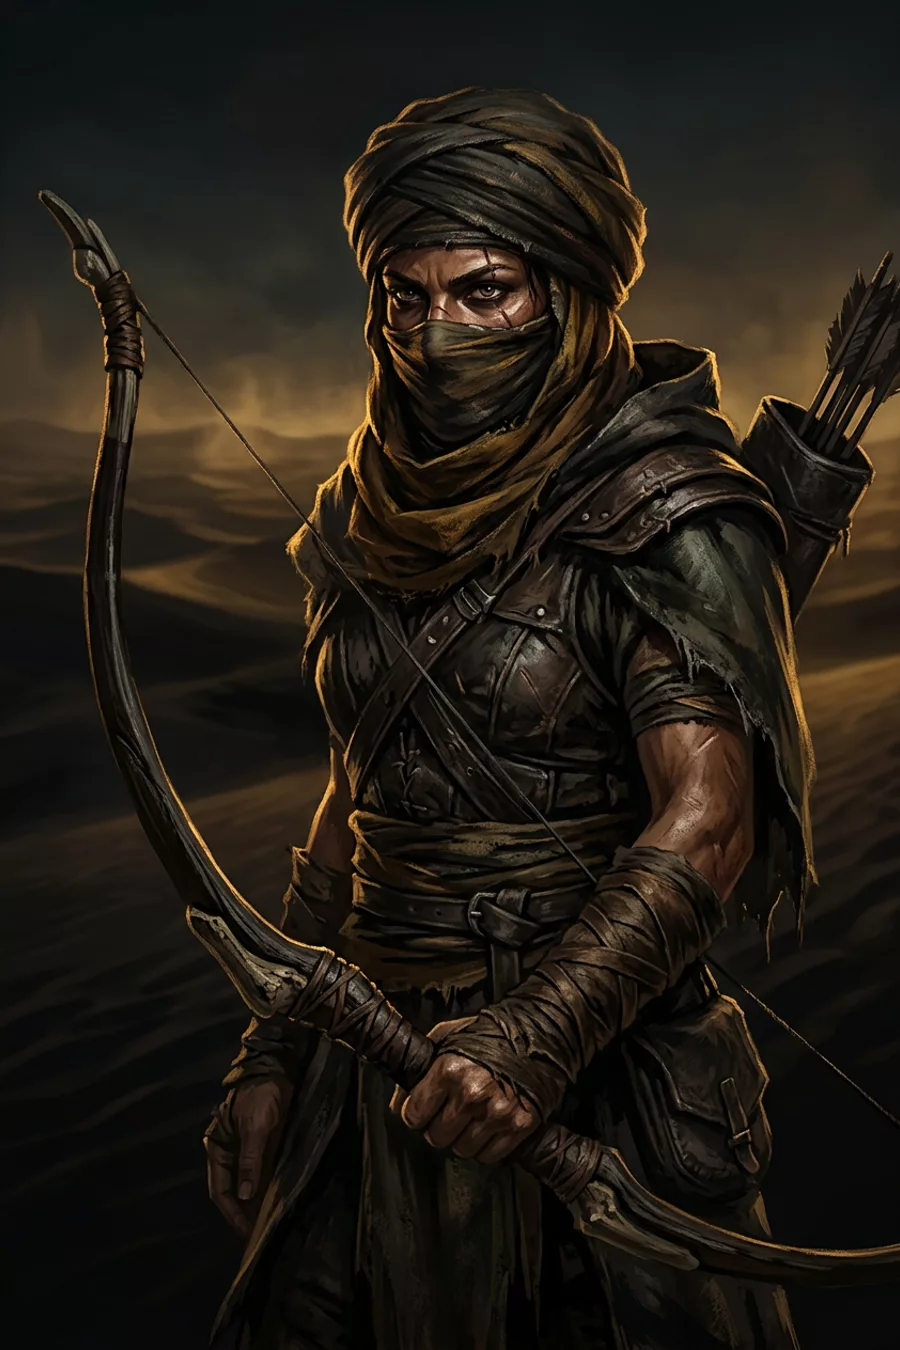
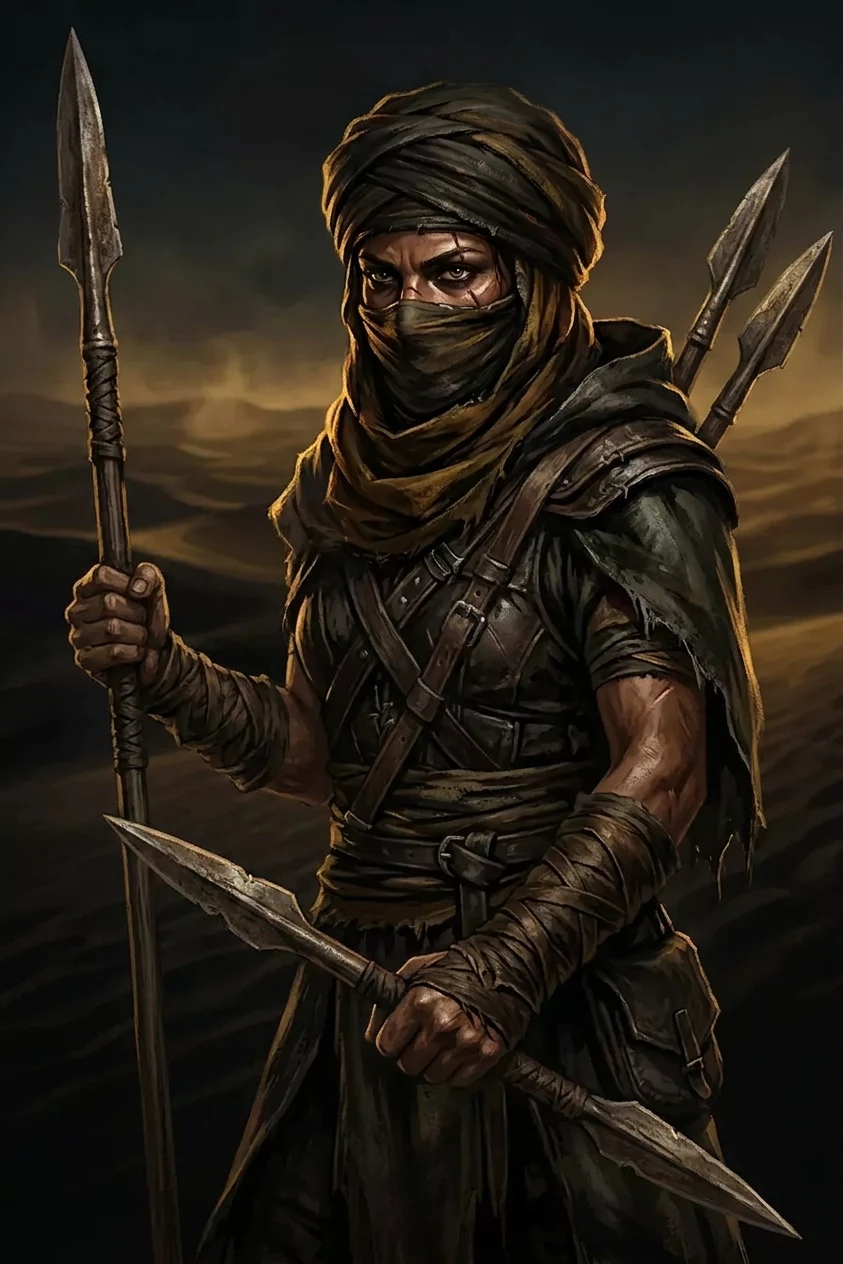
Resultados: botão Início; Miragem: arte e texto sem arco

diff --git a/src/main.jsx b/src/main.jsx
@@ -1,6 +1,6 @@
 import React, {useEffect, useMemo, useState} from 'react'
 import {createRoot} from 'react-dom/client'
-import {ArrowLeft, ArrowRight, BookOpen, Check, Compass, Gem, RotateCcw, Sparkles, Swords, X} from 'lucide-react'
+import {ArrowLeft, ArrowRight, BookOpen, Check, Compass, Gem, Home, RotateCcw, Sparkles, Swords, X} from 'lucide-react'
 import {questions} from './questions'
 import {classes} from './classes'
 import '@fontsource/cinzel/400.css'
@@ -137,8 +137,8 @@ function Flow({step}){return <aside className="flow"><div className="flow-headin
 function Quiz({answers,setAnswers,back,reveal,currentStep,setCurrentStep}){const question=questions[currentStep]; const selected=answers[currentStep]; const choose=option=>{const copy=[...answers];copy[currentStep]=option;setAnswers(copy)}; const next=()=>{if(currentStep===11){reveal()}else if(currentStep<11){setCurrentStep(step=>step+1)}}; const previous=()=>{if(currentStep>0) setCurrentStep(step=>step-1);else back()};return <main className="quiz-shell"><SceneBg soft/><header className="quiz-top"><div><span>PASSO {String(currentStep+1).padStart(2,'0')} DE 12</span><strong>{Math.round((currentStep+1)/12*100)}%</strong></div><div className="progress"><i style={{width:`${(currentStep+1)/12*100}%`}}/></div></header><div className="quiz-layout"><Flow step={currentStep}/><section className="question-panel"><div className="question-number">{String(currentStep+1).padStart(2,'0')} <span>/ 12</span></div><h1>{question.prompt}</h1><p>{question.context}</p><div className="choices">{question.options.map((option,i)=><button key={option.title} className={`choice-button ${selected===option?'choice-button--selected':''}`} onClick={()=>choose(option)}><span>0{i+1}</span><b>{option.title}</b><small>{option.detail}</small>{selected===option&&<Check className="choice-check" size={17}/>}</button>)}</div><div className="quiz-actions"><button className="ghost" onClick={previous}><ArrowLeft size={17}/> Voltar</button><button className="primary" disabled={!selected} onClick={next}>{currentStep===11?'Revelar caminho':'Continuar'} <ArrowRight size={17}/></button></div></section></div></main>}
 function Portrait({profile}){const [failed,setFailed]=useState(false);return <figure><div className="real-portrait">{!failed?<img src={profile.image} alt={profile.imageAlt} loading="lazy" onError={()=>setFailed(true)}/>:<div className="portrait-fallback">{profile.name}</div>}</div><figcaption>Retrato de inspiração</figcaption></figure>}
 function ResultCard({profile,main}){return <article className={`result-card ${main?'main-result':''}`}><Portrait profile={profile}/><div className="result-content"><div className="card-kicker">{main?'SEU NORTE':'SEGUNDA OPÇÃO'} <span>{profile.kind}</span></div><h2>{profile.name}</h2><div className="affinity"><Gem size={14}/> <b>{profile.affinity}%</b> de afinidade</div><p className="desc">{profile.description}</p><blockquote>{profile.scene}</blockquote><div className="why"><h3>Por que combina</h3>{profile.why.map(x=><div key={x}><Check size={15}/>{x}</div>)}</div><div className="profile-grid"><span><b>Perfil</b>{profile.role}</span><span><b>Atributo</b>{profile.attribute}</span><span><b>Complexidade</b>{profile.complexity}</span><span><b>Fonte</b>{profile.source}</span></div><p className="attention"><b>Antes de escolher:</b> {profile.attention}</p></div></article>}
-function Results({answers,redo,back}){const {top,second}=useMemo(()=>pickResults(answers),[answers]);return <main className="results-shell"><SceneBg soft/><header className="result-header"><div className="eyebrow"><Compass size={15}/> SUA BÚSSOLA APONTA PARA</div><h1>Um caminho <em>feito para você.</em></h1><Ornament/><p>Suas escolhas desenharam duas rotas coerentes para sua próxima aventura.</p></header><section className="results-list"><ResultCard profile={top} main/><ResultCard profile={second}/></section><div className="result-actions"><button className="ghost" onClick={back}><ArrowLeft size={17}/> Voltar às escolhas</button><button className="primary" onClick={redo}><RotateCcw size={17}/> Refazer jornada</button></div><footer><SamarBadge variant="dark"/><span>Que sua história encontre um bom começo.</span></footer></main>}
-function App(){const [screen,setScreen]=useState('intro');const [answers,setAnswers]=useState(Array(12).fill(null));const [currentStep,setCurrentStep]=useState(0);return screen==='intro'?<Intro start={()=>setScreen('quiz')}/>:screen==='quiz'?<Quiz answers={answers} setAnswers={setAnswers} currentStep={currentStep} setCurrentStep={setCurrentStep} back={()=>setScreen('intro')} reveal={()=>setScreen('results')}/>:<Results answers={answers} redo={()=>{setAnswers(Array(12).fill(null));setCurrentStep(0);setScreen('quiz')}} back={()=>setScreen('quiz')}/>}
+function Results({answers,redo,back,home}){const {top,second}=useMemo(()=>pickResults(answers),[answers]);return <main className="results-shell"><SceneBg soft/><header className="result-header"><div className="eyebrow"><Compass size={15}/> SUA BÚSSOLA APONTA PARA</div><h1>Um caminho <em>feito para você.</em></h1><Ornament/><p>Suas escolhas desenharam duas rotas coerentes para sua próxima aventura.</p></header><section className="results-list"><ResultCard profile={top} main/><ResultCard profile={second}/></section><div className="result-actions"><button className="ghost" onClick={home}><Home size={17}/> Início</button><button className="ghost" onClick={back}><ArrowLeft size={17}/> Voltar às escolhas</button><button className="primary" onClick={redo}><RotateCcw size={17}/> Refazer jornada</button></div><footer><SamarBadge variant="dark"/><span>Que sua história encontre um bom começo.</span></footer></main>}
+function App(){const [screen,setScreen]=useState('intro');const [answers,setAnswers]=useState(Array(12).fill(null));const [currentStep,setCurrentStep]=useState(0);return screen==='intro'?<Intro start={()=>setScreen('quiz')}/>:screen==='quiz'?<Quiz answers={answers} setAnswers={setAnswers} currentStep={currentStep} setCurrentStep={setCurrentStep} back={()=>setScreen('intro')} reveal={()=>setScreen('results')}/>:<Results answers={answers} redo={()=>{setAnswers(Array(12).fill(null));setCurrentStep(0);setScreen('quiz')}} back={()=>setScreen('quiz')} home={()=>{setAnswers(Array(12).fill(null));setCurrentStep(0);setScreen('intro')}}/>}
 createRoot(document.getElementById('root')).render(<App/>)
 
 // Verificação automática do fluxo (somente com ?selftest na URL; não afeta o uso normal).

diff --git a/src/classes.js b/src/classes.js
@@ -91,7 +91,7 @@ c('atleta','Atleta','Classe variante','Heróis de Arton','Força','Baixa','Físi
 c('burgues','Burguês','Classe variante','Heróis de Arton','Carisma','Média','Influência e riqueza','Um Nobre que troca o sangue azul pelo ouro vivo: contratos, favores e uma rede que vale um reino.', ['Dinheiro e influência são armas que você quer usar.','Negociação e bastidores divertem mais do que a guerra.'],'Sua rede social é o seu poder; mantenha os contatos vivos.','“A assinatura no pergaminho move exércitos.”','5002556',{social:5,lead:3,craft:2,support:3,complex:2}),
 c('santo','Santo','Classe variante','Heróis de Arton','Carisma','Média','Fé luminosa','Um Paladino tocado pelo divino: a luz não o segue — ela o antecede.', ['O arquétipo do escolhido luminoso é o seu favorito.','Milagres visíveis e presença sagrada combinam com você.'],'Grandes poderes trazem grandes expectativas — e provações.','“A praça se cala quando a luz começa a sair de você.”','5002657',{faith:5,defense:3,support:3,social:3,lead:2}),
 c('sentinela','Sentinela','Classe variante','Dragão Brasil','Inteligência','Alta','Magia protetora','Um Arcanista que levanta muros de mana e barreiras vivas: o escudo invisível do grupo.', ['Proteção arcana é a sua vocação.','Você prefere conter ameaças a destruí-las.'],'Suas defesas exigem preparo e leitura do campo.','“O feitiço inimigo se estilhaça contra o ar — no ar.”','5002758',{magic:5,defense:4,tactics:3,complex:3,craft:1}),
-c('miragem','Miragem','Classe variante','Dragão Brasil','Destreza','Média','Ilusão e emboscada','Um Caçador que ataca onde o deserto mente: cada duna esconde um tiro que não se vê chegar.', ['Ilusões e emboscadas são a sua arte.','Paciência de predador combina com você.'],'Funciona melhor com terreno e tempo para armar a caçada.','“O oásis tremula. Você atira do lugar onde ele não está.”','5002859',{stealth:4,ranged:4,precision:4,dark:2,nature:2}),
+c('miragem','Miragem','Classe variante','Dragão Brasil','Destreza','Média','Ilusão e emboscada','Um Caçador que ataca onde o deserto mente: cada duna esconde uma azagaia que não se vê chegar.', ['Ilusões e emboscadas são a sua arte.','Paciência de predador combina com você.'],'Funciona melhor com terreno e tempo para armar a caçada.','“O oásis tremula. Sua lança parte do lugar onde ele não está.”','5002859',{stealth:4,ranged:3,melee:3,precision:4,dark:2,nature:2}),
 c('cruzado','Cruzado','Classe variante','Dragão Brasil','Força','Média','Fé em armas','Um Clérigo de armadura e martelo: a palavra divina chega a cavalo, com estandarte e fúria santa.', ['Você quer fé que avança em formação.','Combate e milagre no mesmo personagem atraem você.'],'Sua causa pede clareza: contra o quê você marcha?','“O estandarte se ergue. A carga sagrada começa.”','5002960',{faith:4,melee:4,defense:3,lead:2,tactics:2}),
 c('capanga','Capanga','Classe variante','Dragão Brasil','Destreza','Baixa','Trabalho sujo','Um Ladino dos becos e das dívidas: mãos rápidas, lealdade comprada e nenhuma pergunta.', ['Personagens de submundo e moral cinzenta atraem você.','Resolver problemas do jeito prático é o seu estilo.'],'Sua fama precede suas boas intenções — se existirem.','“O beco conhece o seu apelido. E os devedores, o seu preço.”','5003061',{stealth:4,melee:3,dark:4,social:2,precision:2}),
 c('comandante','Comandante','Classe variante','Dragão Brasil','Carisma','Média','Estratégia de campo','Um Nobre que troca o salão pelo mapa de guerra: ordens claras, tropas fiéis e a vitória planejada.', ['Liderar exércitos é a sua fantasia.','Táticas e moral de tropa são o seu forte.'],'Você depende do grupo; liderar é melhor que fazer sozinho.','“Sua voz corta o caos. O flanco esquerdo, enfim, avança.”','5003162',{lead:5,tactics:5,social:3,defense:2,support:2})
